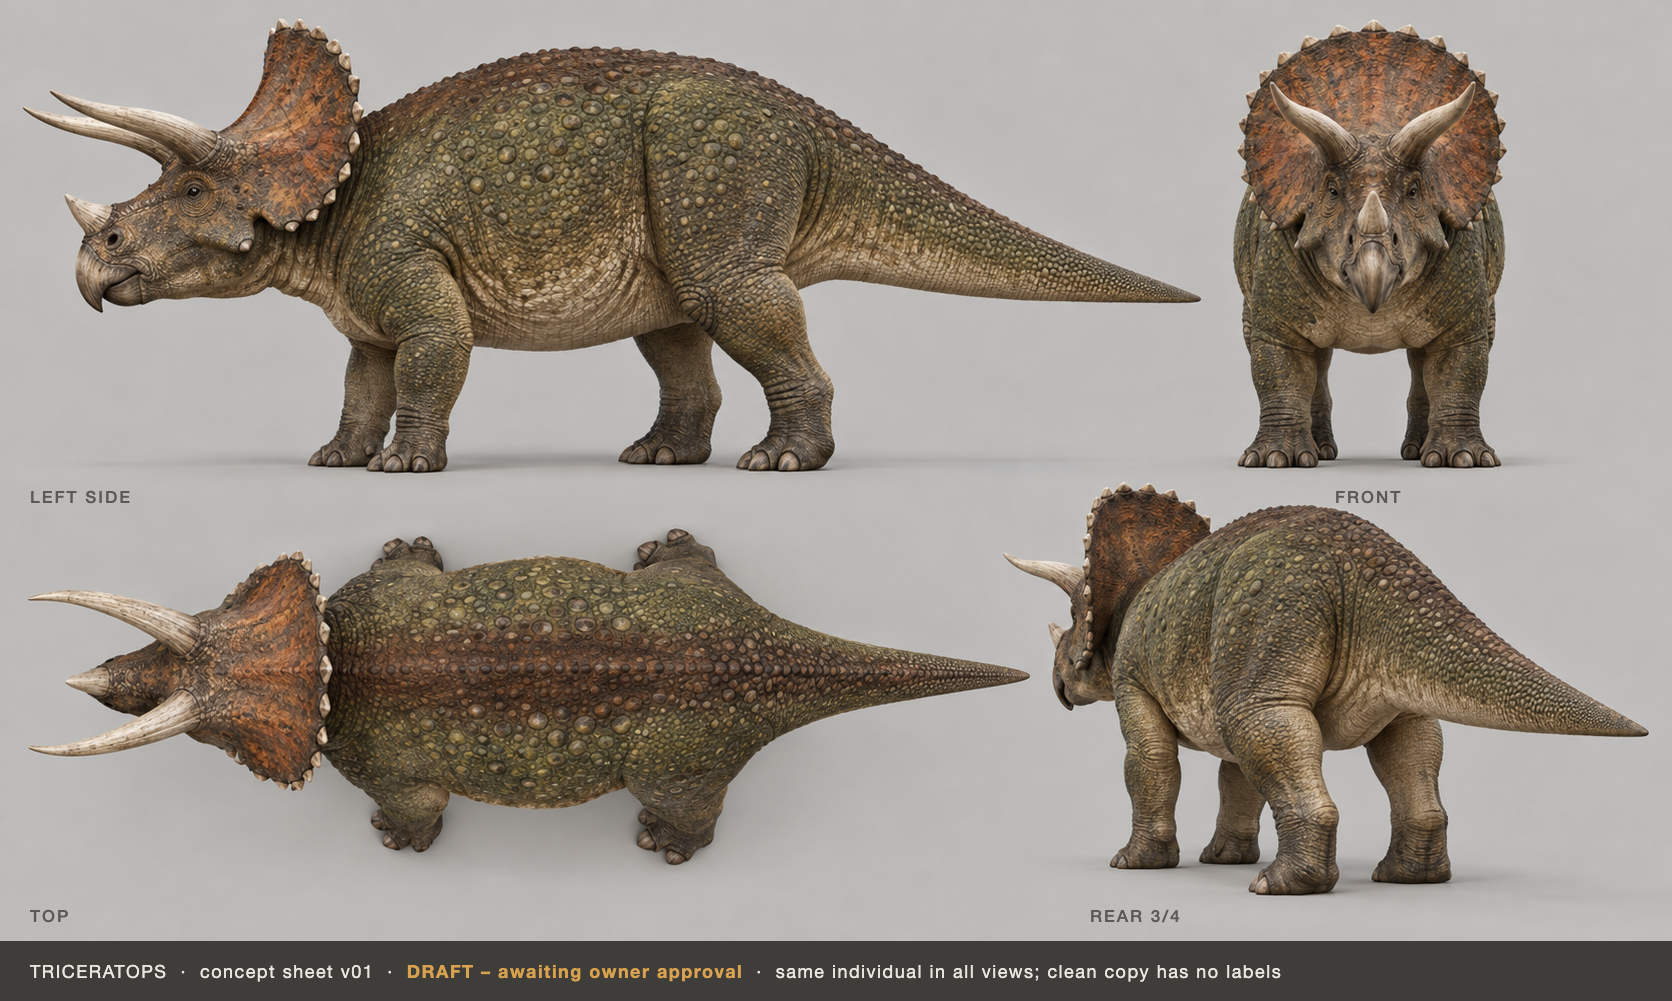
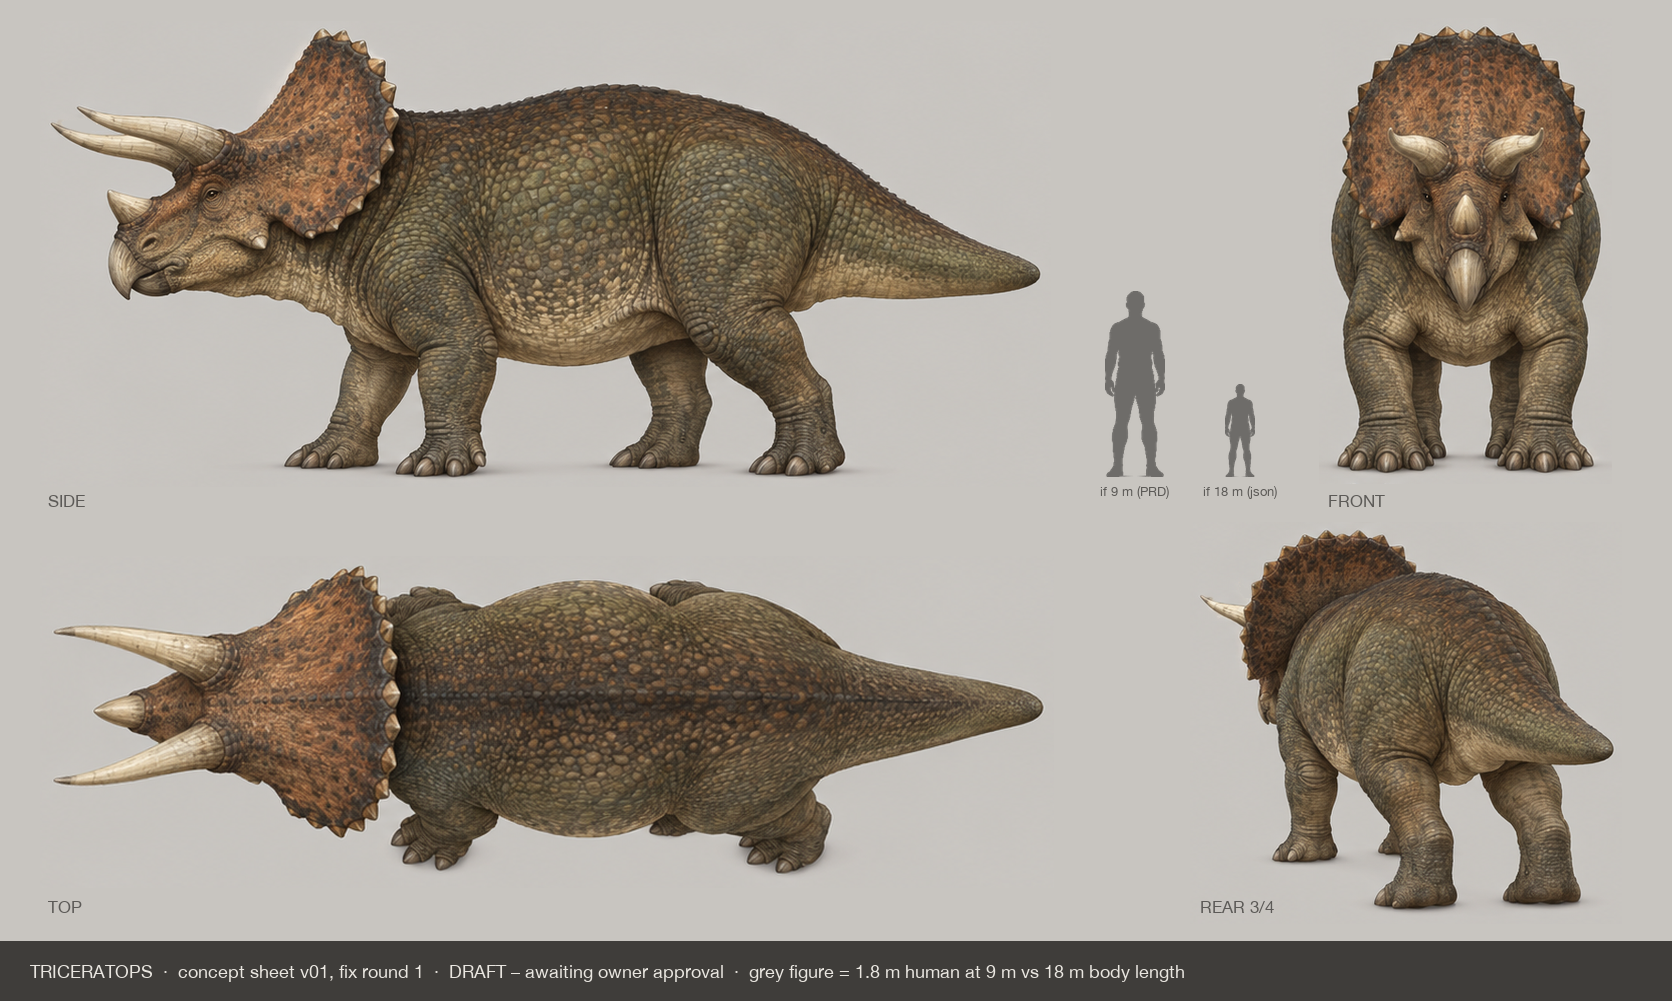
TRIKE: Triceratops concept sheet v01 fix round 1 (DRAFT)
Paleo-art review fixes: one horn geometry and body girth across views,
short blunt tail, true rear 3/4, separated forefeet, clean 2x2 gutters,
Deinonychus background value and flatter painterly style; review copy
gets 1.8 m human figures at 9 m and 18 m. ChatGPT web text-only prompts
(conversation 6ad8695b-5eb8-83ea-843f-a865ce7db0d2) plus local
re-layout; 0 credits. No Tripo.

diff --git a/docs/orchestration/reports/claude-mmo-trike.md b/docs/orchestration/reports/claude-mmo-trike.md
@@ -71,3 +71,60 @@ They apply once a mesh and rig exist. There were no Godot or Blender runs.
   4. A credit cap is needed from the owner; one generation plus one retry would be 100 credits.
 - **W2-RAGDOLL:** `game/data/creatures/ragdoll.json` on `claude/mmo-w2-ragdoll` has no triceratops profile, so nothing needs re-tuning now. A profile is needed once the rigged mesh lands.
 - **Leftover files:** the work tree already held untracked `game/scripts/dev/creature_pose_lab.gd` and `game/scenes/dev/creature_pose_lab.tscn` from an earlier run (2026-10-20, triceratops pose shots). They were left alone and not committed.
+
+## Fix round 1 (2026-10-21, after the paleo-art review)
+
+The sheet and review copy were replaced in place (same paths, still `DRAFT`). The previous draft is in commit a775a83c.
+
+### How it was made
+
+- **Attempt that was blocked:** I tried to attach the old sheet and the Deinonychus sheet to ChatGPT as references. The session's permission classifier refused the upload, so every prompt in this round was text only.
+- **Conversation `6ad8695b-5eb8-83ea-843f-a865ce7db0d2`** (ChatGPT web, owner's Plus plan; scratchpad driver `trike2/tools/chat.mjs`):
+  1. A fresh text-only generation with all the fixes written into the prompt.
+     - It came out flatter and painterly, with better horns.
+     - Its rear view was a front three-quarter view, and its tail was long.
+  2. Edit: shorter tail and a true rear three-quarter view. The rear view came out right, but the tail became a stump.
+  3. Edit: tail 1.6 times longer. It came back as long as v01.
+  4. Edit: tail a quarter shorter, plus forefeet. This is the base for the final sheet.
+- **Local post-processing (deterministic, scratchpad `trike2/tools/relayout.py` and `horns.py`):**
+  - Removed two faint ghost smears that the edits left next to horn tips (side view and rear view).
+  - Shifted the background to the Deinonychus value, RGB 200,197,192. Animal pixels were left alone.
+  - Cut out the four views and placed them again at one common scale of 0.94.
+    - The generator had drawn the top view at 0.85 of the side view's scale. I scaled it up so its beak-to-tail length matches the side view.
+  - Bent the free ends of the two top-view brow horns outward by 17 px at the tips, so the tip spread matches the front view.
+- **Review copy:** the clean pixels, plus view labels, two 1.8 m human silhouettes and a footer. The silhouettes are cut from the approved Deinonychus sheet. One is drawn at a 9 m body length (PRD and look text) and one at 18 m (`triceratops.json` `real_length_m`), so the owner can pick a size.
+
+**Credits: 0.** No Tripo, Meshy or Higgsfield calls.
+
+### Measured on the clean sheet
+
+Threshold 40 against the background, the same method as the review.
+
+| Review item | Before (v01) | Now |
+|---|---|---|
+| 1. Brow horn tip spread / frill width | front 0.76, top 0.55 | front 152/269 = 0.57, top 149/267 = 0.56 |
+| 2. Body width / frill width | front 0.93, top 1.13 | front 242/269 = 0.90, top 250/267 = 0.94 |
+| 3. Tail, hind-foot centre to tip / length | side 34%, top 27%, needle tip | side 25 to 26%, top 26%, rear view short. The tip is blunt and rounded in all three views. |
+| 4. Layout | top and rear panels interleaved, 5 px row gap | side-to-front 280 px, top-to-rear 152 px, empty row band y 479 to 529 (51 px), outer margins at least 24 px |
+| 5. Side-view forefeet | 18 px overlap | about 14 px apart at the hooves |
+| 6. Style and background | glossy render, background 190,187,185 | flatter painterly rendering, softer shadows, calmer scales, background 200,197,192 |
+| 8. Scale | no figure | two figures on the review copy only |
+
+### Still open, said plainly
+
+- The tail is about 25 to 26% against the 28 to 30% asked. It is consistent across views and blunt. Three edits swung it between a stump and the original whip; this was the closest.
+- The forefeet have separate blunt hoofed digits now, but they are not exactly three hoofed and two clawless. The reviewer called this acceptable at the ARK bar.
+- The top-view horns were bent by a pixel warp, not redrawn.
+- The views come from ChatGPT image edits, so the hide reads a bit browner than in v01. It is still olive, with a rust frill, pale belly and ivory horns.
+- Size is still the owner's call: 9 m in the PRD and look text, 18 m in the json.
+
+### Gates
+
+These were not run, because this is a concept sheet and nothing under `game/` changed:
+- creature-verify
+- the t_*.gd tests and run_all
+- smoke
+- creature_anim_lab
+- windowed shots
+
+W2-RAGDOLL still has no triceratops profile (checked `claude/mmo-w2-ragdoll` 56890436), so nothing needs re-tuning.

diff --git a/docs/orchestration/mmo/asset-replacement.md b/docs/orchestration/mmo/asset-replacement.md
@@ -15,7 +15,7 @@ reviewer), `DONE` (shipped and pixel-checked). Evidence comes from the 2026-10-1
 |---|---|---|---|---|
 | deinonychus | Oldest Meshy v1 single-image mesh (12k tris, JPEG normal), twisting pipe legs (owner-reported), slab hands, paddle tail, washed lime | Tripo multiview from approved sheet v01 + dsc rig | art-deinonychus | IN PROGRESS (sheet approved; build interrupted by usage limit) |
 | allosaurus, tarbosaurus, dilophosaurus | Procedural box-on-two-sticks placeholder | Tripo + dsc | W1-ARTA | REPLACE (concept sheets need a side-view-first redo; owner batch approval pending) |
-| triceratops | Box placeholder; the DeepSeek bake-off builds (A assembled from primitives, B untextured white) were rejected by the owner on 2026-10-21 | Tripo multiview from an approved concept sheet + a proper rig (the Stegosaurus v2 route) | TRIKE | IN PROGRESS (concept sheet v01 is DRAFT and waiting for owner approval; 0 credits spent; no Tripo call yet) |
+| triceratops | Box placeholder; the DeepSeek bake-off builds (A assembled from primitives, B untextured white) were rejected by the owner on 2026-10-21 | Tripo multiview from an approved concept sheet + a proper rig (the Stegosaurus v2 route) | TRIKE | IN PROGRESS (concept sheet v01, fix round 1 after the paleo-art review, is DRAFT and waiting for owner approval; 0 credits spent; no Tripo call yet) |
 | styracosaurus, ankylosaurus, smilodon | Box placeholder | Tripo + dsc | W1-ARTB | REPLACE (same) |
 | brachiosaurus | Box placeholder (does not spawn yet) | Tripo + dsc | W2-ARTC | REPLACE |
 | stegosaurus | Real GLB exists but a stale override forces the box (`creature_view.gd:65-66`); v2 merged with survivor branch | One-line fix + review v2 | W2-CVIEW | REPLACE |

diff --git a/assets/concept-art/INDEX.md b/assets/concept-art/INDEX.md
@@ -12,7 +12,7 @@ Approval is version-specific. `Milan review anchor` records the authenticated me
 | Deinonychus | `creatures/deinonychus/concept-sheet-v01.png` | `DRAFT` | - | Not started | 0 | None | Not started | Pending |
 | Velociraptor | `creatures/velociraptor/concept-sheet-v01.png` | `DRAFT` | - | Not started | 0 | None | Not started | Pending |
 | Utahraptor | `creatures/utahraptor/concept-sheet-v01.png` | `DRAFT` | - | Not started | 0 | None | Not started | Pending |
-| Triceratops | `creatures/triceratops/concept-sheet-v01.png` (labelled review copy `concept-sheet-v01-review.png`) | `DRAFT` | - | Not started; Tripo multiview only after approval. Sheet: ChatGPT web image generation on the owner's Plus plan, 2026-10-21, conversation `6ad860ec-6718-83ea-8edd-dfb73f4409a2` (a Codex attempt first hit its usage limit and made nothing) | 0 | None | Not started | Pending |
+| Triceratops | `creatures/triceratops/concept-sheet-v01.png` (labelled review copy `concept-sheet-v01-review.png`; fix round 1 replaced the first draft in place, 2026-10-21) | `DRAFT` | - | Not started; Tripo multiview only after approval. Sheet: ChatGPT web image generation on the owner's Plus plan, text-only prompts (no reference uploads). First draft: conversation `6ad860ec-6718-83ea-8edd-dfb73f4409a2`. Fix round 1: conversation `6ad8695b-5eb8-83ea-843f-a865ce7db0d2` (one generation + three edits), then local post-processing: ghost smears removed, background set to 200,197,192, views re-laid with clear gutters, top view scaled to the side view, top-view brow horns bent outward to match the front view | 0 | None | Not started | Pending |
 
 ### Stegosaurus clip matrix
 
